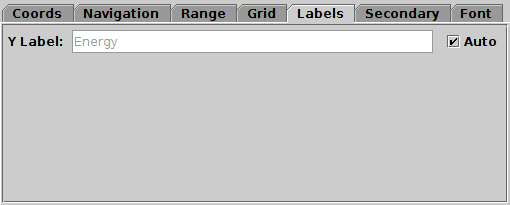
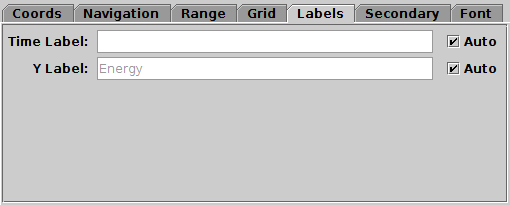
topcat: Time Axis label can now be configured in Time Plot
The labelling option was deliberately absent for the time axis on
the grounds, presumably, that the Time axis is the Time axis.
But it's harmless and sometimes desirable to be able to
put a custom label on the horizontal axis of a time plot,
including if you are abusing the time plot to plot non-temporal
quantities.

Changed region(s): [[0.0, 0.1463, 0.9706, 0.4098]]

diff --git a/topcat/src/main/uk/ac/starlink/topcat/plot2/TimeAxisController.java b/topcat/src/main/uk/ac/starlink/topcat/plot2/TimeAxisController.java
@@ -99,15 +99,6 @@ public class TimeAxisController
     }
 
     @Override
-    public ConfigMap getConfig() {
-        ConfigMap config = super.getConfig();
-        assert ! config.keySet().contains( TimeSurfaceFactory.TLABEL_KEY );
-        config.put( TimeSurfaceFactory.TLABEL_KEY,
-                    TimeSurfaceFactory.TLABEL_KEY.getDefaultValue() );
-        return config;
-    }
-
-    @Override
     protected boolean clearRange( TimeSurfaceFactory.Profile oldProfile,
                                   TimeSurfaceFactory.Profile newProfile,
                                   PlotLayer[] oldLayers, PlotLayer[] newLayers,
@@ -145,6 +136,7 @@ public class TimeAxisController
      */
     private static ConfigKey<String>[] createAxisLabelKeys() {
         List<ConfigKey<String>> list = new ArrayList<ConfigKey<String>>();
+        list.add( TimeSurfaceFactory.TLABEL_KEY );
         list.add( TimeSurfaceFactory.YLABEL_KEY );
         @SuppressWarnings("unchecked")
         ConfigKey<String>[] keys =
